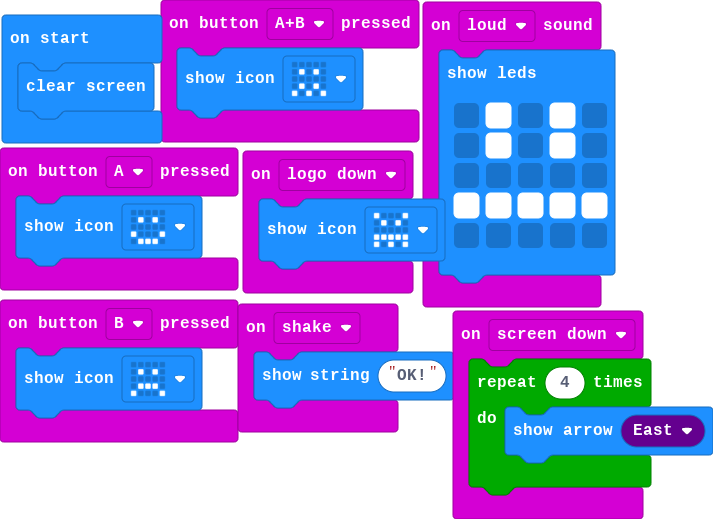
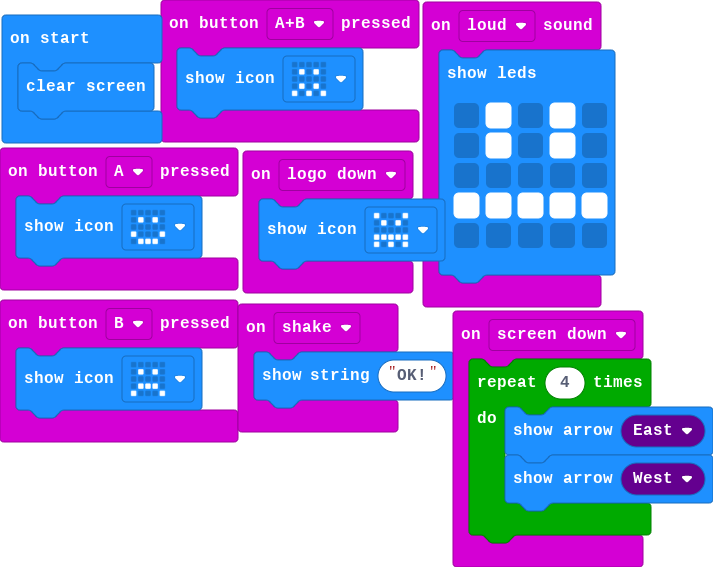
Update main.blocks, main.ts

diff --git a/main.ts b/main.ts
@@ -4,6 +4,7 @@ input.onButtonPressed(Button.A, function () {
 input.onGesture(Gesture.ScreenDown, function () {
     for (let index = 0; index < 4; index++) {
         basic.showArrow(ArrowNames.East)
+        basic.showArrow(ArrowNames.West)
     }
 })
 input.onSound(DetectedSound.Loud, function () {
